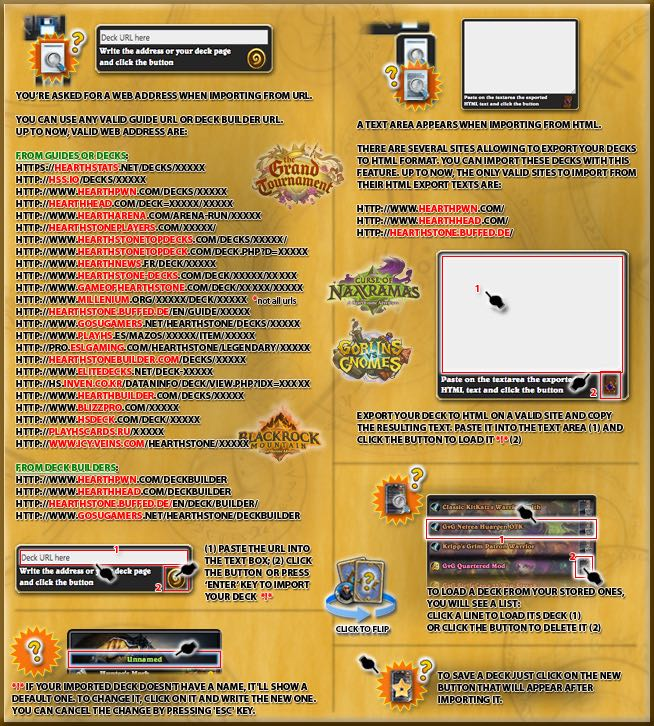
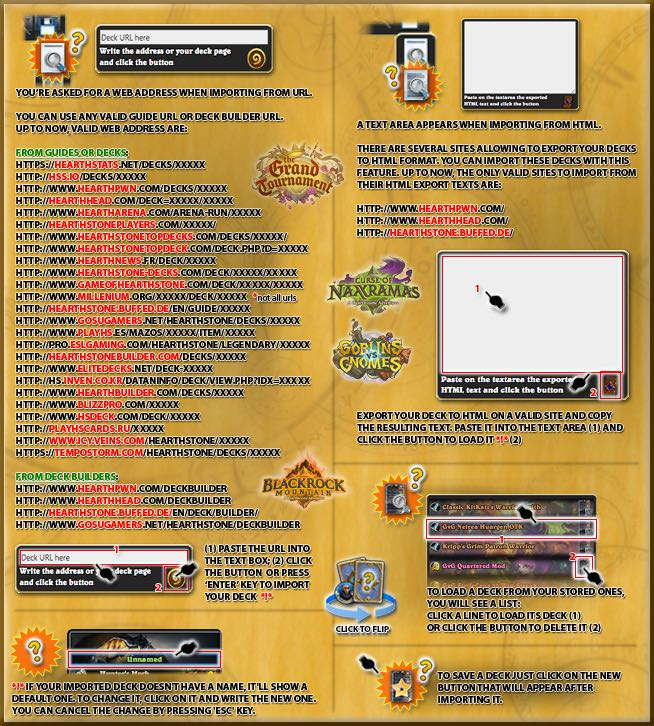
Added imports from TempoStorm and removed some logs

Changed region(s): [[0.0, 0.1212, 0.5505, 0.7576]]

diff --git a/js/import/import_main.js b/js/import/import_main.js
@@ -134,9 +134,9 @@ function processContent(url, html)
 /* TODO
 	else if (url.indexOf("arenavalue") != -1)
 		result = importFromArenaValue(html);
+*/
 	else if (url.indexOf("tempostorm") != -1)
 		result = importFromTempoStorm(html);
-*/
 	if (result == null)
 		result = { name: "", hero: 0, cards: [], errcode: texts[locale].unknownurl, errvalue: 1 };
 
@@ -243,6 +243,25 @@ function processUrl(url, callback)
 			while (deckId.indexOf('/') != -1)
 				deckId = deckId.substr(deckId.indexOf('/') + 1);
 			url = 'http://hearthstonebuilder.com/api/deck/' + deckId;
+		}
+
+		// We use a custom method for tempostorm (nice egotistic site, that doesn't like to share stuf
+		if (url.indexOf('tempostorm.com') != -1)
+		{
+			var slug = url.substr(url.indexOf('decks/') + 6);
+			$.post('http://hugojcastro.esy.es/hs_helper/import_deck.php',
+				{
+					url: 'https://tempostorm.com/deck',
+					params: '{"slug":"' + slug + '"}'
+				}).done( function(data) {
+					var result = processContent(url, data); 
+					// Call original callback
+					callback(result);
+					// Hide waiting animation
+					hideSpinner();
+				} );
+			// Custom stuff. No need to continue.
+			return;
 		}
 
 		// 1 use corsproxy (sometimes fails), 2 use whateverorigin (don't process GET request in url), 3 use anyorigin (not recommended)

diff --git a/js/import/import_content.js b/js/import/import_content.js
@@ -1083,3 +1083,33 @@ function importFromIcyVeins(html)
 	return result;
 }
 // ///////////////
+function importFromTempoStorm(data)
+{
+	var result = { name: "", hero: 0, cards: [], errcode: "", errvalue: 0, isarena: false };
+
+	try
+	{
+		var deckInfo = JSON.parse(data);
+		// Name
+		result.name = deckInfo.deck.name;
+		// Hero
+		result.hero = getHeroClassFromName('enus', deckInfo.deck.playerClass.toLowerCase());
+		// Cards
+		for (var i in deckInfo.deck.cards)
+		{
+			var cardId = getCardIdFromName('enus', deckInfo.deck.cards[i].card.name);
+			var count  = deckInfo.deck.cards[i].qty;
+			// Arena
+			if ((count > 2) || ( (getQualityFromCard(cardId) == 5) && (count > 1))) result.isarena = true;
+			result.cards[result.cards.length] = { card: cardId, count: count };
+		}
+	}
+	catch(e)
+	{
+		result.errcode  = texts[locale].exceptionthrown + e;
+		result.errvalue = 1;
+	}
+
+	return result;
+}
+// ///////////////

diff --git a/js/jHSChart.js b/js/jHSChart.js
@@ -264,9 +264,7 @@ jHSChart.prototype.setPie = function(pie)
 }
 jHSChart.prototype.updatePieLabels = function(minion, spell, weapon)
 {
-	console.log('updating to ' + minion + ', ' + spell + ', ' + weapon);
 	if (this.piedata == null) return;
-	console.log('updated');
 	this.piedata[0].name = minion;
 	this.piedata[1].name = spell;
 	this.piedata[2].name = weapon;
